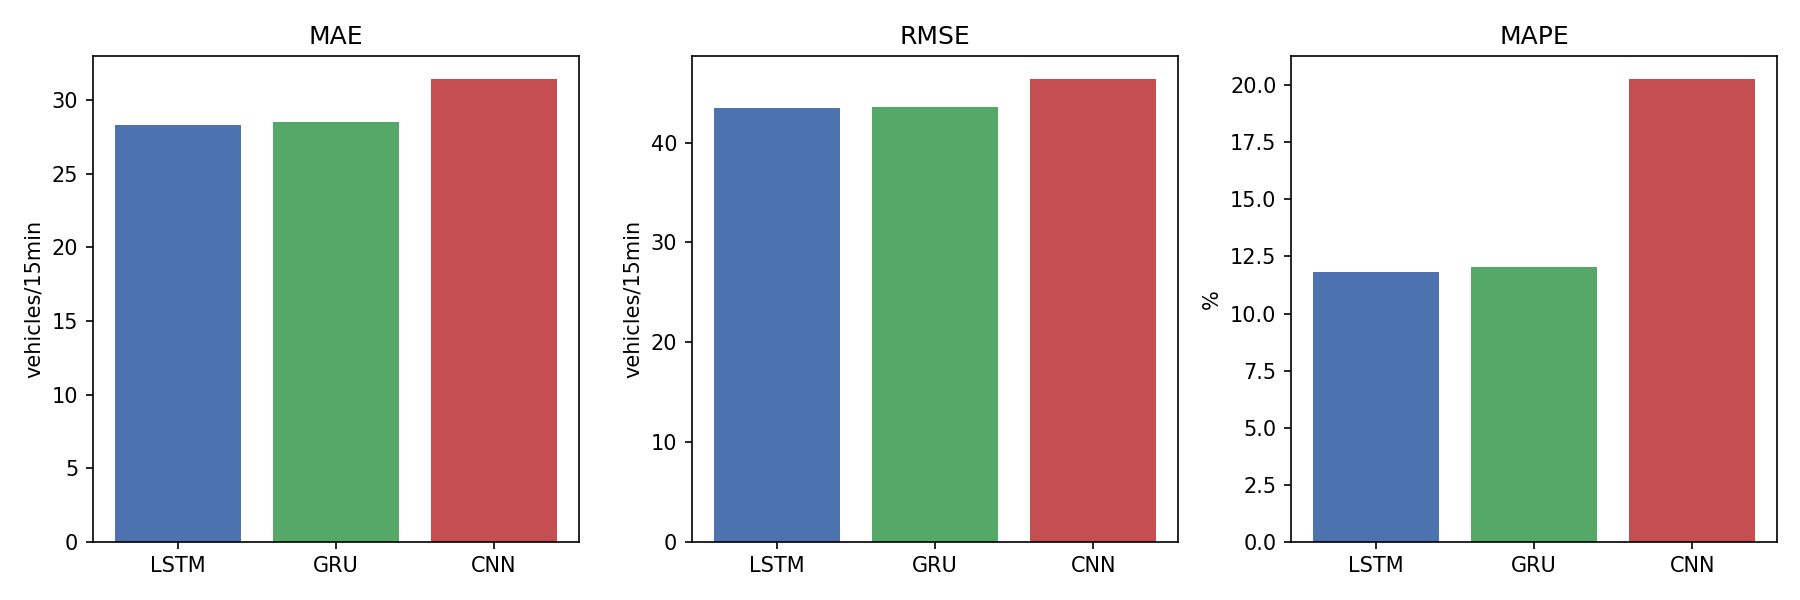
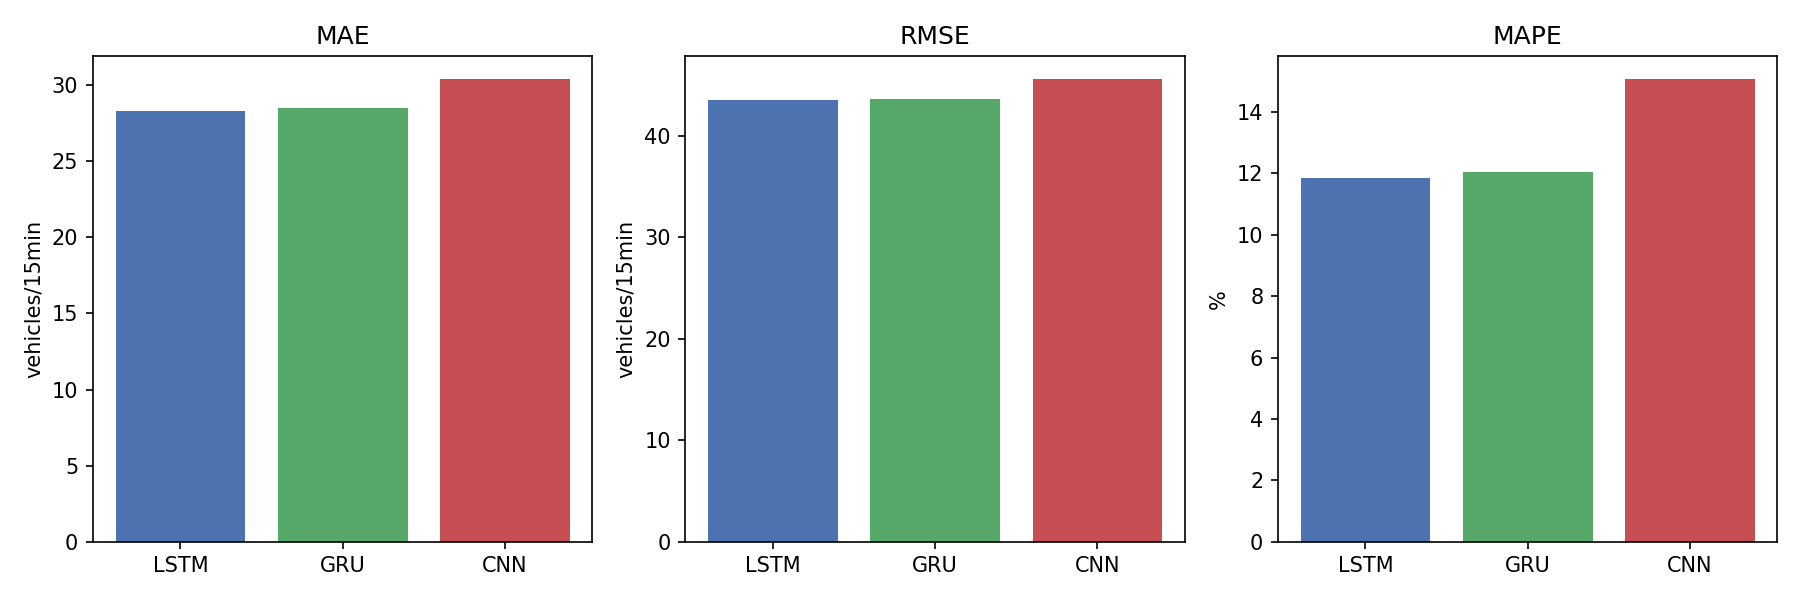
fix: CNN architecture (BatchNorm + Flatten), add scaler.pkl

diff --git a/2B/src/cnn.py b/2B/src/cnn.py
@@ -1,5 +1,11 @@
 """
 1D CNN model for traffic flow prediction (third ML technique).
+
+Architecture: two Conv1d blocks with BatchNorm → Flatten → FC head.
+Unlike the previous AdaptiveAvgPool approach (which collapsed the sequence
+to a single mean value and destroyed temporal order), this version flattens
+the full feature map so the FC layers can still distinguish *which* timestep
+each feature came from.
 """
 import os
 import numpy as np
@@ -10,37 +16,60 @@ from torch.utils.data import TensorDataset, DataLoader
 from sklearn.preprocessing import MinMaxScaler
 from sklearn.metrics import mean_absolute_error, mean_squared_error
 
+# ─────────────────────────────────────────────
+# CONFIG
+# ─────────────────────────────────────────────
 TRAIN_PATH = "data/train.csv"
-VAL_PATH = "data/val.csv"
-TEST_PATH = "data/test.csv"
+VAL_PATH   = "data/val.csv"
+TEST_PATH  = "data/test.csv"
 MODEL_PATH = "models/cnn_best.pth"
-LAGS = 12
+
+LAGS       = 12      # 12 × 15 min = 3-hour lookback (same as LSTM/GRU)
 BATCH_SIZE = 32
-EPOCHS = 100
-PATIENCE = 10
-LR = 0.001
+EPOCHS     = 100
+PATIENCE   = 15      # increased from 10 — CNN val loss is noisier, needs more room
+LR         = 0.0005  # halved from 0.001 — prevents the optimizer from overshooting
+                     # the narrow loss basin that caused the flat training curve
 
 
+# ─────────────────────────────────────────────
+# STEP 1: Load data  (unchanged)
+# ─────────────────────────────────────────────
 def load_data():
     train = pd.read_csv(TRAIN_PATH)
-    val = pd.read_csv(VAL_PATH)
-    test = pd.read_csv(TEST_PATH)
+    val   = pd.read_csv(VAL_PATH)
+    test  = pd.read_csv(TEST_PATH)
     for df in [train, val, test]:
         df["timestamp"] = pd.to_datetime(df["timestamp"])
+    print(f"Train: {len(train):,} rows | Val: {len(val):,} rows | Test: {len(test):,} rows")
+    print(f"Sites: {train['scats_id'].nunique()}")
+    print(f"Flow range: {train['flow_15min'].min()} – {train['flow_15min'].max()}")
     return train, val, test
 
 
+# ─────────────────────────────────────────────
+# STEP 2: Normalise  (unchanged)
+# ─────────────────────────────────────────────
 def normalise(train, val, test):
     scaler = MinMaxScaler(feature_range=(0, 1))
     train = train.copy()
-    val = val.copy()
-    test = test.copy()
+    val   = val.copy()
+    test  = test.copy()
     train["flow_scaled"] = scaler.fit_transform(train[["flow_15min"]])
-    val["flow_scaled"] = scaler.transform(val[["flow_15min"]])
-    test["flow_scaled"] = scaler.transform(test[["flow_15min"]])
+    val["flow_scaled"]   = scaler.transform(val[["flow_15min"]])
+    test["flow_scaled"]  = scaler.transform(test[["flow_15min"]])
+    print(f"Scaled range — min: {train['flow_scaled'].min():.2f}  max: {train['flow_scaled'].max():.2f}")
+    
+    import joblib
+    os.makedirs("models", exist_ok=True)
+    joblib.dump(scaler, "models/scaler.pkl")
+
     return train, val, test, scaler
 
 
+# ─────────────────────────────────────────────
+# STEP 3: Build sliding windows  (unchanged)
+# ─────────────────────────────────────────────
 def build_sequences(df, lags=LAGS):
     X, y = [], []
     for _, site_row in df.groupby("scats_id"):
@@ -51,54 +80,102 @@ def build_sequences(df, lags=LAGS):
             y.append(flow[i])
     X = np.array(X).reshape(-1, lags, 1)
     y = np.array(y)
+    print(f"X shape: {X.shape}  |  y shape: {y.shape}")
     return X, y
 
 
+# ─────────────────────────────────────────────
+# STEP 4: Model  ← KEY CHANGES HERE
+# ─────────────────────────────────────────────
 class CNNModel(nn.Module):
+    """
+    Two-block 1D CNN with BatchNorm, followed by a two-layer FC head.
+
+    Why these changes vs the original:
+
+    1. Replaced AdaptiveAvgPool1d(1) with Flatten().
+       AdaptiveAvgPool collapsed the 12-timestep sequence into a single
+       averaged value, destroying temporal ordering entirely.  Flatten
+       keeps all 64 channels × 12 positions = 768 values, so the FC head
+       can still distinguish features at different time positions.
+
+    2. Added BatchNorm1d after each Conv layer.
+       Traffic flow has high variance across sites and hours.  BatchNorm
+       normalises each channel's activations per mini-batch, which
+       stabilises gradients and is the main reason train loss was flat
+       (exploding/vanishing gradients in the conv stack).
+
+    3. Kept kernel_size=3 with padding=1 so sequence length is preserved
+       through both conv layers (same padding convention as LSTM/GRU use
+       implicitly via recurrent connections).
+    """
     def __init__(self, lags=LAGS):
         super().__init__()
+
+        # ── Convolutional feature extractor ──
+        # Input:  (batch, 1, 12)   [channels-first after transpose]
+        # Output: (batch, 64, 12)  [same spatial length due to padding=1]
         self.conv = nn.Sequential(
-            nn.Conv1d(1, 32, kernel_size=3, padding=1),
+            # Block 1
+            nn.Conv1d(in_channels=1,  out_channels=32, kernel_size=3, padding=1),
+            nn.BatchNorm1d(32),   # normalise across the 32 feature maps
             nn.ReLU(),
-            nn.Conv1d(32, 64, kernel_size=3, padding=1),
+
+            # Block 2
+            nn.Conv1d(in_channels=32, out_channels=64, kernel_size=3, padding=1),
+            nn.BatchNorm1d(64),
             nn.ReLU(),
-            nn.AdaptiveAvgPool1d(1),
-        )
-        self.fc = nn.Sequential(
+
+            # Flatten ALL channels × timesteps — preserves temporal position info
+            # Output: (batch, 64 * lags) = (batch, 768)
             nn.Flatten(),
-            nn.Linear(64, 32),
+        )
+
+        # ── Fully-connected prediction head ──
+        self.fc = nn.Sequential(
+            nn.Linear(64 * lags, 64),
             nn.ReLU(),
-            nn.Dropout(0.2),
-            nn.Linear(32, 1),
+            nn.Dropout(0.2),      # same dropout rate as LSTM/GRU for fair comparison
+            nn.Linear(64, 1),
         )
 
     def forward(self, x):
-        # x: (batch, seq, 1) -> (batch, 1, seq)
-        x = x.transpose(1, 2)
-        x = self.conv(x)
-        return self.fc(x)
+        # x arrives as (batch, seq=12, features=1)
+        # Conv1d expects (batch, channels, seq) so transpose first
+        x = x.transpose(1, 2)          # → (batch, 1, 12)
+        x = self.conv(x)               # → (batch, 768)
+        return self.fc(x)              # → (batch, 1)
 
 
+# ─────────────────────────────────────────────
+# STEP 5: Train  (unchanged except model instantiation)
+# ─────────────────────────────────────────────
 def train_model(X_train, y_train, X_val, y_val):
     os.makedirs("models", exist_ok=True)
+
     X_train_t = torch.FloatTensor(X_train)
     y_train_t = torch.FloatTensor(y_train).unsqueeze(1)
-    X_val_t = torch.FloatTensor(X_val)
-    y_val_t = torch.FloatTensor(y_val).unsqueeze(1)
+    X_val_t   = torch.FloatTensor(X_val)
+    y_val_t   = torch.FloatTensor(y_val).unsqueeze(1)
 
     loader = DataLoader(
-        TensorDataset(X_train_t, y_train_t), batch_size=BATCH_SIZE, shuffle=True
+        TensorDataset(X_train_t, y_train_t),
+        batch_size=BATCH_SIZE,
+        shuffle=True,
     )
-    model = CNNModel()
+
+    model     = CNNModel()
     criterion = nn.MSELoss()
     optimizer = torch.optim.Adam(model.parameters(), lr=LR)
 
-    best_val_loss = float("inf")
+    best_val_loss    = float("inf")
     patience_counter = 0
     train_losses, val_losses = [], []
 
     print("\nTraining 1D CNN...")
     for epoch in range(EPOCHS):
+
+        # ── Training phase ──
         model.train()
         epoch_loss = 0.0
         for X_batch, y_batch in loader:
@@ -109,6 +186,7 @@ def train_model(X_train, y_train, X_val, y_val):
             epoch_loss += loss.item()
         train_losses.append(epoch_loss / len(loader))
 
+        # ── Validation phase ──
         model.eval()
         with torch.no_grad():
             val_loss = criterion(model(X_val_t), y_val_t).item()
@@ -116,34 +194,50 @@ def train_model(X_train, y_train, X_val, y_val):
 
         if (epoch + 1) % 10 == 0:
             print(
-                f"  Epoch {epoch+1:3d}/{EPOCHS} — train: {train_losses[-1]:.6f}  val: {val_loss:.6f}"
+                f"  Epoch {epoch+1:3d}/{EPOCHS} — "
+                f"train: {train_losses[-1]:.6f}  val: {val_loss:.6f}"
             )
 
+        # ── Early stopping ──
         if val_loss < best_val_loss:
-            best_val_loss = val_loss
-            torch.save(model.state_dict(), MODEL_PATH)
+            best_val_loss    = val_loss
             patience_counter = 0
+            torch.save(model.state_dict(), MODEL_PATH)
         else:
             patience_counter += 1
             if patience_counter >= PATIENCE:
-                print(f"\n  Early stopping at epoch {epoch+1} — best val: {best_val_loss:.6f}")
+                print(
+                    f"\n  Early stopping at epoch {epoch+1} "
+                    f"— best val: {best_val_loss:.6f}"
+                )
                 break
 
-    pd.DataFrame(
-        {"epoch": range(1, len(train_losses) + 1), "train_loss": train_losses, "val_loss": val_losses}
-    ).to_csv(MODEL_PATH.replace(".pth", "_losses.csv"), index=False)
+    print(f"  Model saved to {MODEL_PATH}")
+
+    pd.DataFrame({
+        "epoch":      range(1, len(train_losses) + 1),
+        "train_loss": train_losses,
+        "val_loss":   val_losses,
+    }).to_csv(MODEL_PATH.replace(".pth", "_losses.csv"), index=False)
+
     return train_losses, val_losses
 
 
+# ─────────────────────────────────────────────
+# STEP 6: Evaluate  (unchanged)
+# ─────────────────────────────────────────────
 def evaluate(X_test, y_test, scaler):
     model = CNNModel()
     model.load_state_dict(torch.load(MODEL_PATH, weights_only=True))
     model.eval()
+
     with torch.no_grad():
         preds = model(torch.FloatTensor(X_test)).numpy()
-    preds_real = scaler.inverse_transform(preds)
+
+    preds_real  = scaler.inverse_transform(preds)
     y_test_real = scaler.inverse_transform(y_test.reshape(-1, 1))
-    mae = mean_absolute_error(y_test_real, preds_real)
+
+    mae  = mean_absolute_error(y_test_real, preds_real)
     rmse = np.sqrt(mean_squared_error(y_test_real, preds_real))
     mask = y_test_real.flatten() > 10
     mape = (
@@ -151,18 +245,23 @@ def evaluate(X_test, y_test, scaler):
         if mask.any()
         else float("nan")
     )
+
     print(f"\nCNN Test Results:")
     print(f"  MAE:  {mae:.2f}  vehicles/15min")
     print(f"  RMSE: {rmse:.2f} vehicles/15min")
     print(f"  MAPE: {mape:.2f}%")
+
     return {"MAE": mae, "RMSE": rmse, "MAPE": mape}
 
 
+# ─────────────────────────────────────────────
+# MAIN
+# ─────────────────────────────────────────────
 if __name__ == "__main__":
-    train, val, test = load_data()
-    train, val, test, scaler = normalise(train, val, test)
-    X_train, y_train = build_sequences(train)
-    X_val, y_val = build_sequences(val)
-    X_test, y_test = build_sequences(test)
+    train, val, test            = load_data()
+    train, val, test, scaler    = normalise(train, val, test)
+    X_train, y_train            = build_sequences(train)
+    X_val,   y_val              = build_sequences(val)
+    X_test,  y_test             = build_sequences(test)
     train_model(X_train, y_train, X_val, y_val)
     evaluate(X_test, y_test, scaler)

diff --git a/2B/src/predict.py b/2B/src/predict.py
@@ -49,9 +49,14 @@ def _get_scaler():
     """
     global _scaler
     if _scaler is None:
-        train = pd.read_csv("data/train.csv")
-        _scaler = MinMaxScaler(feature_range=(0, 1))
-        _scaler.fit(train[["flow_15min"]])
+        import joblib
+        scaler_path = "models/scaler.pkl"
+        if os.path.exists(scaler_path):
+            _scaler = joblib.load(scaler_path)
+        else:
+            train = pd.read_csv("data/train.csv")
+            _scaler = MinMaxScaler(feature_range=(0, 1))
+            _scaler.fit(train[["flow_15min"]])
     return _scaler
 
 

diff --git a/2B/src/gru.py b/2B/src/gru.py
@@ -50,6 +50,11 @@ def normalise(train, val, test):
     test["flow_scaled"]  = scaler.transform(test[["flow_15min"]])
 
     print(f"Scaled range — min: {train['flow_scaled'].min():.2f}  max: {train['flow_scaled'].max():.2f}")
+    
+    import joblib
+    os.makedirs("models", exist_ok=True)
+    joblib.dump(scaler, "models/scaler.pkl")
+
     return train, val, test, scaler
 # ─────────────────────────────────────────────
 # STEP 3: Build sliding windows

diff --git a/2B/src/lstm.py b/2B/src/lstm.py
@@ -50,6 +50,11 @@ def normalise(train, val, test):
     test["flow_scaled"]  = scaler.transform(test[["flow_15min"]])
 
     print(f"Scaled range — min: {train['flow_scaled'].min():.2f}  max: {train['flow_scaled'].max():.2f}")
+    
+    import joblib
+    os.makedirs("models", exist_ok=True)
+    joblib.dump(scaler, "models/scaler.pkl")
+    
     return train, val, test, scaler
 # ─────────────────────────────────────────────
 # STEP 3: Build sliding windows

diff --git a/2B/README.md b/2B/README.md
@@ -3,7 +3,7 @@
 ## Setup
 
 ```bash
-cd iai_assignment_2
+ccdd iai_assignment_2
 python3 -m venv .venv
 source .venv/bin/activate
 pip install -r 2B/requirements.txt